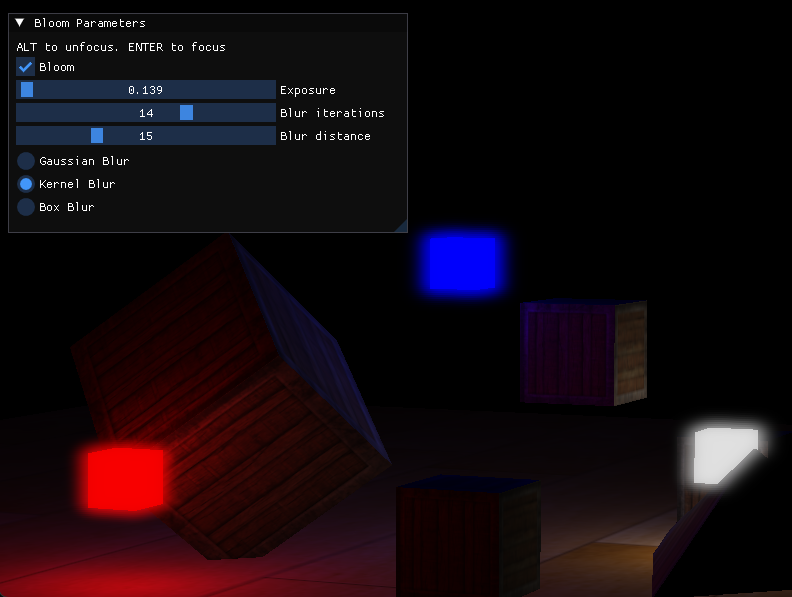
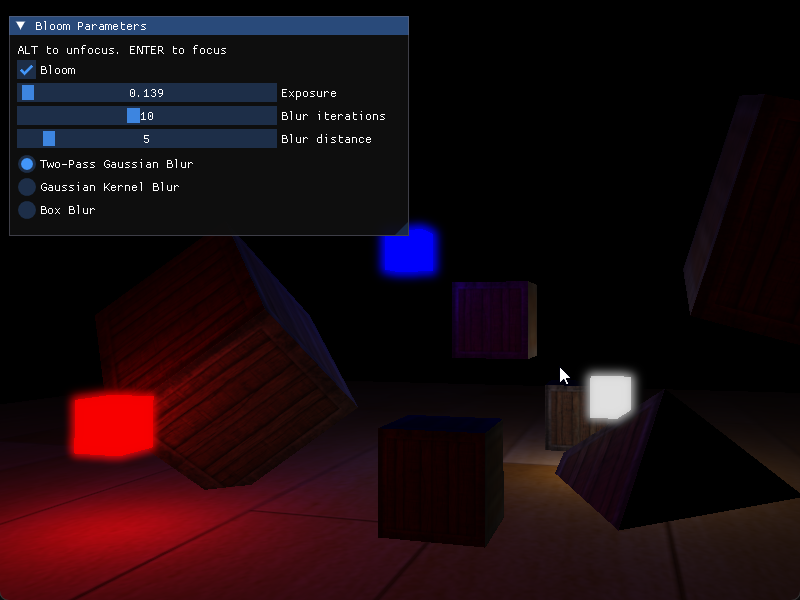
update blurring method names

diff --git a/5-advanced-lighting/40.bloom-imgui/colors/main.cpp b/5-advanced-lighting/40.bloom-imgui/colors/main.cpp
@@ -228,7 +228,7 @@ int main()
         ImGui::SliderInt("Blur iterations", &blur_iterations, 2, 20);
         ImGui::SliderInt("Blur distance", &blur_distance, 0, 50);
 
-        const char* buttons[] = {"Gaussian Blur", "Kernel Blur", "Box Blur"};
+        const char* buttons[] = {"Two-Pass Gaussian Blur", "Gaussian Kernel Blur", "Box Blur"};
 
         if (ImGui::BeginTable("1x3_radio_table", 1))
         {
